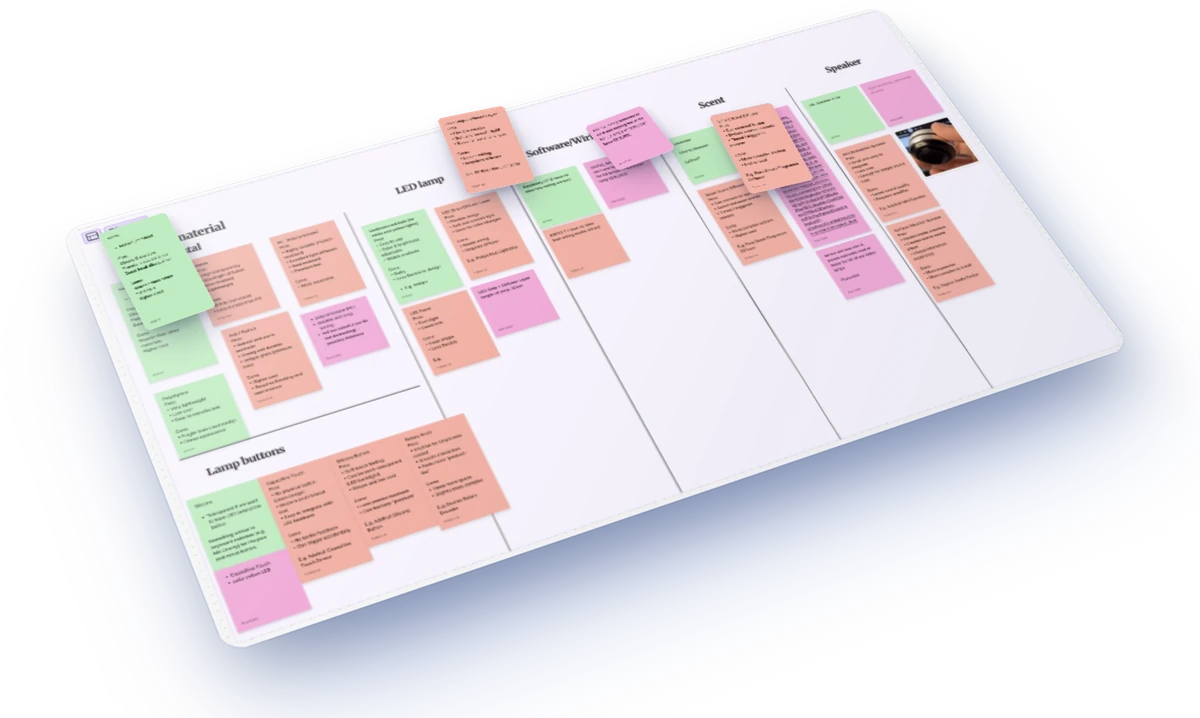
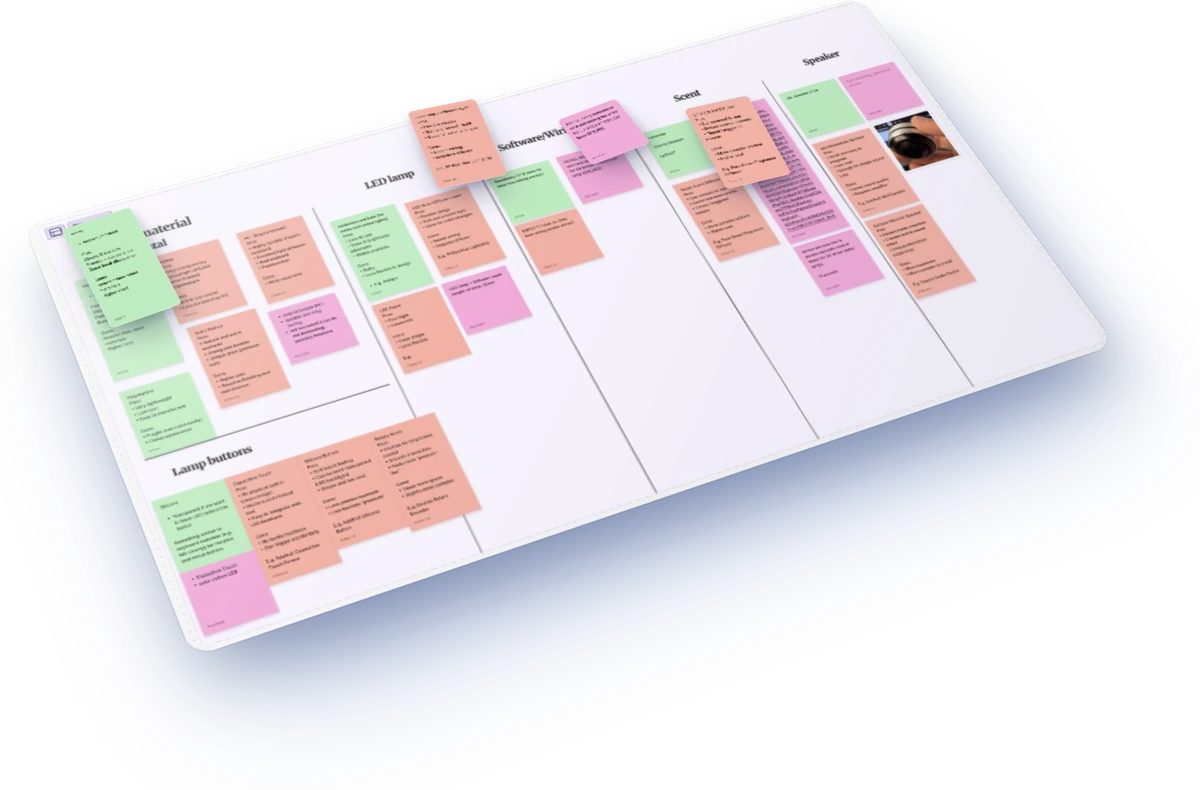
Soulshine role cards: short bullet points, full board shadow, no caption
Claude-Session: https://claude.ai/code/session_017Bf2Ji9pqjddmca5aaYHp1

diff --git a/index.html b/index.html
@@ -983,7 +983,7 @@ html.home-on.at-top .top::after{opacity:0}
 .ss-lead{margin-top:clamp(40px,6vw,88px)}
 .ss-intro{margin:0 0 clamp(8px,1.5vw,16px);max-width:none;font-size:clamp(16px,1.35vw,18px);line-height:1.6;color:var(--ink)}
 .ss-lead .highlights,.ss-roles .highlights{margin-top:clamp(16px,2.4vw,28px)}.ss-lead .hl,.ss-roles .hl{border-top:0;gap:8px;padding:clamp(20px,2.4vw,28px);border-radius:20px;background:linear-gradient(180deg,#FFFFFF 0%,#F6F8FC 100%);border:1px solid rgba(20,40,80,.06);box-shadow:inset 0 1px 0 #fff,0 1px 2px rgba(15,30,60,.06),0 6px 14px -4px rgba(15,30,60,.10),0 22px 44px -14px rgba(30,70,160,.22);transition:transform .4s var(--ease),box-shadow .4s var(--ease)}.ss-lead .hl:hover,.ss-roles .hl:hover{transform:translateY(-3px);box-shadow:inset 0 1px 0 #fff,0 1px 2px rgba(15,30,60,.06),0 10px 20px -6px rgba(15,30,60,.12),0 30px 56px -16px rgba(30,70,160,.28)}.ss-lead .hl .label,.ss-roles .hl .label{color:#2F6FE4;font-size:11.5px}.ss-lead .hl h3,.ss-roles .hl h3{font-family:inherit;font-size:16px;font-weight:700;line-height:1.35}.ss-lead .hl p:not(.label){font-size:14px;line-height:1.5;color:#4A5262}
-.ss-roles .hl p:not(.label){font-size:15px;line-height:1.6;color:#4A5262;margin:0}.ss-role-cards{display:flex;flex-direction:column;gap:clamp(14px,2vw,20px)}.ss-role-lead{display:grid!important;grid-template-columns:minmax(0,1fr) clamp(200px,26vw,320px);gap:clamp(16px,3vw,40px);align-items:center}.ss-role-text{display:flex;flex-direction:column;gap:8px}.ss-board{border:0;background:transparent;overflow:visible;position:relative}.ss-board img{object-fit:contain}.ss-board:hover img{transform:translateY(-4px) scale(1.01)}.ss-board-cap{position:absolute;right:6px;bottom:-4px;font-size:10.5px;color:#6B7480}.ss-roles .linkrow{margin-top:clamp(14px,2vw,20px)}@media (max-width:760px){.ss-role-lead{grid-template-columns:minmax(0,1fr)}}
+.ss-roles .hl p:not(.label){font-size:15px;line-height:1.6;color:#4A5262;margin:0}.ss-role-cards{display:flex;flex-direction:column;gap:clamp(14px,2vw,20px)}.ss-role-lead{display:grid!important;grid-template-columns:minmax(0,1fr) clamp(200px,26vw,320px);gap:clamp(16px,3vw,40px);align-items:center}.ss-role-text{display:flex;flex-direction:column;gap:8px}.ss-board{border:0;background:transparent;overflow:visible;position:relative}.ss-board img{object-fit:contain}.ss-board:hover img{transform:translateY(-4px) scale(1.01)}.ss-pts{list-style:none;margin:2px 0 0;padding:0;display:flex;flex-direction:column;gap:6px}.ss-pts li{position:relative;padding-left:16px;font-size:15px;line-height:1.5;color:#4A5262}.ss-pts li::before{content:"";position:absolute;left:1px;top:.62em;width:6px;height:6px;border-radius:50%;background:#2F6FE4}.ss-roles .linkrow{margin-top:clamp(14px,2vw,20px)}@media (max-width:760px){.ss-role-lead{grid-template-columns:minmax(0,1fr)}}
 @media (min-width:1180px){.ss-lead .highlights{gap:16px}.ss-lead .hl{padding:22px 20px;container-type:inline-size}.ss-lead .hl p:not(.label){white-space:nowrap;font-size:min(14px,calc(100cqi / 38.5))}}
 .ss-lead .stat{border-top:0;padding-top:0;gap:4px}.ss-lead .stat strong{font-size:clamp(26px,2.6vw,34px)}.ss-lead .stat span{font-size:13.5px}
 .ss-lead .stat-chart{margin-top:12px;border:0;background:transparent;overflow:visible}.ss-lead .stat-chart:hover img{transform:translateY(-4px)}
@@ -1448,11 +1448,11 @@ html.home-on.at-top .top::after{opacity:0}
       <h2 class="sec-title" id="ss-role-h">My role</h2>
       <div class="ss-role-cards">
         <div class="hl ss-role-lead">
-          <div class="ss-role-text"><p class="label">Team Lead</p><h3>From idea to working product in five months</h3><p>I led a team of four from an idea to a working lamp, companion app and website, running our workflow, timeline and weekly priorities across hardware and software. I grounded the concept in research and our survey, and brought 15 potential users in at every stage, from concept to prototype.</p></div>
-          <button type="button" class="tx-zoom ss-board" style="--ar:1200/718" data-full="img/soulshine/planning-board.jpg" data-cap="Soulshine planning board · how the team weighed materials, lighting, wiring, scent and sound" aria-label="Enlarge the team's planning board"><img src="img/soulshine/planning-board-3d.webp" alt="The Soulshine planning board tilted in 3D, with sticky notes lifting off it" width="1200" height="718" loading="lazy"><span class="ss-board-cap label">Our planning board</span></button>
+          <div class="ss-role-text"><p class="label">Team Lead</p><h3>From idea to working product in five months</h3><ul class="ss-pts"><li>Led a team of four across hardware and software</li><li>Ran our workflow, timeline and weekly priorities</li><li>Brought 15 users in at every stage</li></ul></div>
+          <button type="button" class="tx-zoom ss-board" style="--ar:1200/790" data-full="img/soulshine/planning-board.jpg" data-cap="Soulshine planning board · how the team weighed materials, lighting, wiring, scent and sound" aria-label="Enlarge the team's planning board"><img src="img/soulshine/planning-board-3d.webp?v=2" alt="The Soulshine planning board tilted in 3D, with sticky notes lifting off it" width="1200" height="790" loading="lazy"></button>
         </div>
         <div class="hl">
-          <p class="label">UX/UI &amp; Visual Designer</p><h3>Designed around real users</h3><p>I built the user personas and wireframed the companion app&rsquo;s core flows, then reworked the design around what users needed after their feedback on my first pitch. I designed and built the website in Figma Sites and created the Soulshine logo and brand.</p>
+          <p class="label">UX/UI &amp; Visual Designer</p><h3>Designed around real users</h3><ul class="ss-pts"><li>Built personas and wireframed the app&rsquo;s core flows</li><li>Reworked the design after user feedback</li><li>Designed the website, logo and brand</li></ul>
         </div>
       </div>
       <div class="highlights two">
